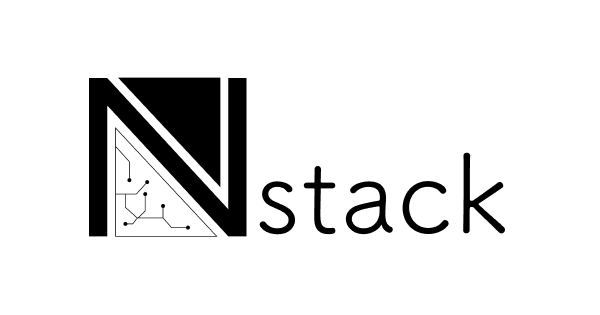
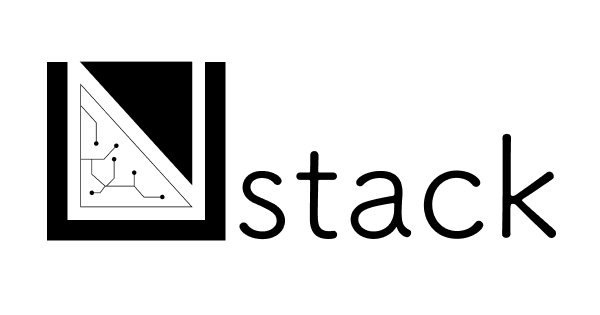
ロゴ変更

Changed region(s): [[0.06, 0.1714, 0.93, 0.7714]]

diff --git a/pages/api/send.tsx b/pages/api/send.tsx
@@ -6,8 +6,8 @@ export default function handler(req, res) {
         to: req.body.email,
         from: process.env.NS_FROM,
         subject: 'お問合せありがとうございました。',
-        text: req.body.name + '様<br><br>平素より、Nstackをご利用いただき誠にありがとうございます。<br>今しばらくお待ちくださいますようよろしくお願い申し上げます。<br>なお、しばらくたっても返信、返答がない場合は、<br>お客様によりご入力いただいたメールアドレスに誤りがある場合がございます。<br>その際は、お手数ですが再度お問い合わせいただけますと幸いです。<br><br>お問い合わせ内容<br>' + req.body.title  + '<br><br>お問い合わせ詳細<br>' + req.body.body,
-        html: req.body.name + '様<br><br>平素より、Nstackをご利用いただき誠にありがとうございます。<br>今しばらくお待ちくださいますようよろしくお願い申し上げます。<br>なお、しばらくたっても返信、返答がない場合は、<br>お客様によりご入力いただいたメールアドレスに誤りがある場合がございます。<br>その際は、お手数ですが再度お問い合わせいただけますと幸いです。<br><br>お問い合わせ内容<br>' + req.body.title  + '<br><br>お問い合わせ詳細<br>' + req.body.body,
+        text: req.body.name + '様<br><br>平素より、Ustackをご利用いただき誠にありがとうございます。<br>今しばらくお待ちくださいますようよろしくお願い申し上げます。<br>なお、しばらくたっても返信、返答がない場合は、<br>お客様によりご入力いただいたメールアドレスに誤りがある場合がございます。<br>その際は、お手数ですが再度お問い合わせいただけますと幸いです。<br><br>お問い合わせ内容<br>' + req.body.title  + '<br><br>お問い合わせ詳細<br>' + req.body.body,
+        html: req.body.name + '様<br><br>平素より、Ustackをご利用いただき誠にありがとうございます。<br>今しばらくお待ちくださいますようよろしくお願い申し上げます。<br>なお、しばらくたっても返信、返答がない場合は、<br>お客様によりご入力いただいたメールアドレスに誤りがある場合がございます。<br>その際は、お手数ですが再度お問い合わせいただけますと幸いです。<br><br>お問い合わせ内容<br>' + req.body.title  + '<br><br>お問い合わせ詳細<br>' + req.body.body,
       };
       (async () => {
         try {

diff --git a/components/framework/layout.tsx b/components/framework/layout.tsx
@@ -6,7 +6,7 @@ import DrawerMenu from '../../components/framework/drawermenu'
 import Scrolltop from '../../components/extend/scrolltop'
 import { existsGaId, GA_ID } from '../../public/js/gtag'
 
-export const siteTitle = 'NStack | フロントエンドエンジニアポートフォリオサイト';
+export const siteTitle = 'UStack | フロントエンドエンジニアポートフォリオサイト';
 export default function Layout({ children, home
   }: {
     children: React.ReactNode
@@ -26,16 +26,14 @@ export default function Layout({ children, home
       ) : null }
       <Head>
         <link rel="icon" href="/favicon.ico" />
-        <meta
-          name="description"
-          content="フロントエンドエンジニアのうえむーのポートフォリオサイトサイトです。実績情報・スキル情報・成果物などを展開して行きます。"
-        />
-        <meta
-          property="og:image"
-          content={`https://uemu-engineer.com/images/ogimage.png`}
-        />
+        <meta name="description" content="フロントエンドエンジニアのうえむーのポートフォリオサイトサイトです。実績情報・スキル情報・成果物などを展開して行きます。" />
+        <meta property="og:image" content="https://uemu-engineer.com/images/ogimage.png" />
         <meta name="og:title" content={siteTitle} />
         <meta name="twitter:card" content="summary_large_image" />
+        <meta name="twitter:creator" content="@uemuragame5683" />
+        <meta name="twitter:title" content={siteTitle} />
+        <meta name="twitter:description" content="フロントエンドエンジニアのうえむーのポートフォリオサイトサイトです。実績情報・スキル情報・成果物などを展開して行きます。" />
+        <meta name="twitter:image" content="https://uemu-engineer.com/images/ogimage.png" />
         <script src="https://ajax.googleapis.com/ajax/libs/jquery/3.3.1/jquery.min.js"></script>
         {existsGaId && (
             <>
@@ -55,16 +53,14 @@ export default function Layout({ children, home
           )}
       </Head>
         <header>
+          <Logo/>
+          <SnsLink/>
           {home ? (
             <>
-              <Logo/>
-              <SnsLink/>
               <DrawerMenu home/>
             </>
           ) : (
             <>
-              <Logo/>
-              <SnsLink/>
               <DrawerMenu/>
             </>
           ) }

diff --git a/components/top/profile.tsx b/components/top/profile.tsx
@@ -29,8 +29,8 @@ export default function Profile() {
         </div>
         <div className="about__profile__lessondetail">
           <p>
-          2021年に公開した個人のポートフォリオサイト「Nstack(エヌスタック)」<br /><br />
-          Nstack(エヌスタック)は 自分のイニシャルとフルスタックエンジニアを組み合わせた造語です。<br /><br />
+          2021年に公開した個人のポートフォリオサイト「Ustack(ユースタック)」<br /><br />
+          Ustack(ユースタック)は 自分のイニシャルとフルスタックエンジニアを組み合わせた造語です。<br /><br />
           フロントエンド・サーバーサイド・インフラなど様々なスキルを身につけ、フルスタックエンジニアになることを目指し日々努力しています。
           </p>
         </div>
